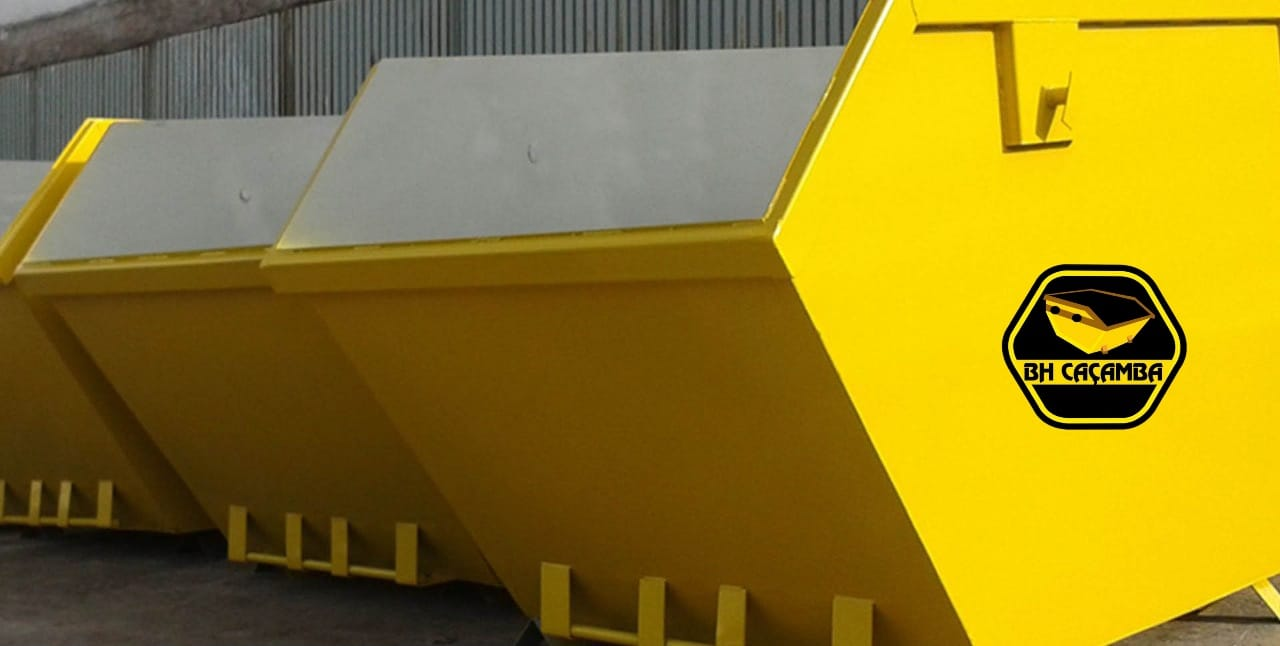
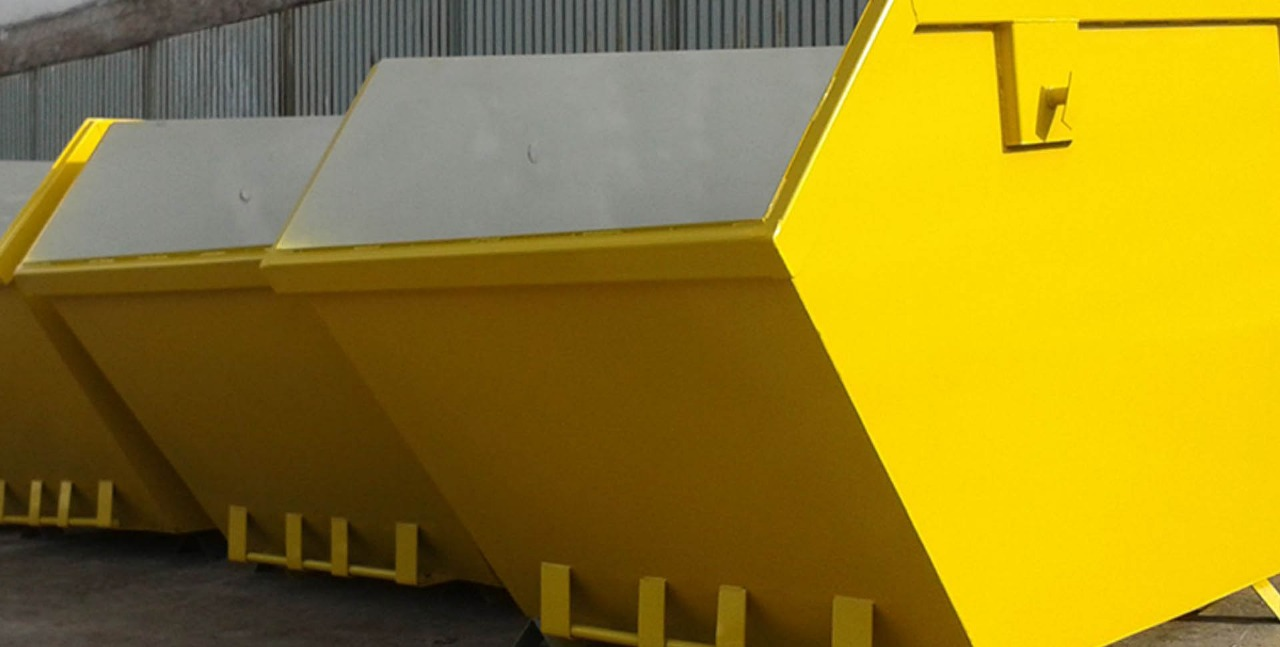
add init

diff --git a/index.html b/index.html
@@ -29,8 +29,8 @@
     <meta property="og:title" content="Bh Caçamba">
     <meta property="og:description" content="Bh cacamba, Bh cacambas, cacambas bh, caçambas bh, aluguel de cacambas bh, aluguel de caçambas em bh, cacambas belo horizonte, caçambas belo horizonte, aluguel de cacambas belo horizonte, aluguel de caçambas em belo horizonte" />
     
-    <meta property="og:url" content="https://legalizacaodeobras.com.br/BH Caçamba">
-    <meta property="og:image" content="https://legalizacaodeobras.com.br/img/lp.jpg">
+    <meta property="og:url" content="https://bhcacamba.netlify.app">
+    <meta property="og:image" content="https://bhcacamba.netlify.app/img/logo.jpg">
     <meta property="og:type" content="website">
     <meta property="og:site_name" content="BH Caçamba - Descarte conciente">
 
@@ -48,15 +48,15 @@
 <meta property="twitter:description" content="BH Caçamba, BH Caçambas, Caçambas BH, Caçambas com sustentabilidade, Triagem de residuos" />
 <meta property="og:title" content="BH Caçamba - Descarte conciente" />
 <meta property="twitter:title" content="BH Caçamba" />
-<meta property="og:url" content="https://suaobra.netlify.app/bhcacaba/" />
-<meta property="twitter:url" content="https://suaobra.netlify.app/bhcacaba/" />
+<meta property="og:url" content="https://bhcacamba.netlify.app" />
+<meta property="twitter:url" content="https://bhcacamba.netlify.app" />
 <meta property="og:type" content="website" /><link rel="canonical" href="https://suaobra.netlify.app/bhcacaba/" />
 <meta property="og:image" content="logo" />
-<meta property="twitter:image" content="https://cache2net3.com/Repositorio/10114/Logo/2.webp" />
+
 <meta property="og:image:type" /><meta property="og:image:width" content="800" />
 <meta property="og:image:height" content="600" />
 <meta property="twitter:card" content="summary_large_image" />
-<link rel="image_src" href="https://cache2net3.com/Repositorio/10114/Logo/2.webp" />
+
 <title>BH Caçamba</title>   
 
 </head>
@@ -132,7 +132,7 @@
 
                 <h1 class="first_half title  titleBanner"  >
                     <!-- <span class="pt">Bh Caçamba</span> -->
-                    <img src="img/logo.jpg" alt="">
+                    <img src="img/logo.png"  alt=”Bh Caçamba” width=200 height=200>
                 </h1>
 
                 <p class="first_half description h6 titleBanner">
